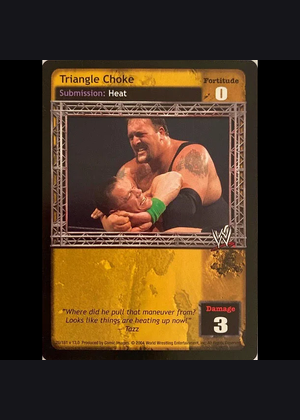
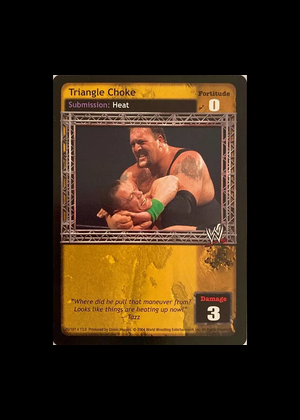
fix: resize cards - Enough With the Trash Talk +15%, Beating the Odds wider, Triangle Choke bigger, Knee Lift wider, Diversion wider

diff --git a/scripts/resize_cards.py b/scripts/resize_cards.py
@@ -1,0 +1,108 @@
+#!/usr/bin/env python3
+"""Make specific cards bigger/wider as requested."""
+from PIL import Image, ImageChops
+import os
+
+ROOT = os.path.abspath(os.path.join(os.path.dirname(__file__), '..'))
+PUBLIC = os.path.join(ROOT, 'public', 'cards')
+BANK = os.path.join(ROOT, 'scripts', 'generated', 'bank')
+DECKS = os.path.join(ROOT, 'Decks')
+W, H = 300, 420
+
+def crop_whitespace(img, threshold=240):
+    bg = Image.new(img.mode, img.size, (255, 255, 255))
+    diff = ImageChops.difference(img, bg)
+    diff = ImageChops.add(diff, diff, 2.0, -threshold)
+    bbox = diff.getbbox()
+    return img.crop(bbox) if bbox else img
+
+def save(img, card_id):
+    img.save(os.path.join(PUBLIC, f'{card_id}.png'), 'PNG')
+    print(f'  {card_id}.png -> {img.size}')
+
+# ── Enough With the Trash Talk: 15% bigger in all dimensions ──
+# Source is landscape (500x333). Current uses backlash fit with margin.
+# Make it fill 85% of canvas instead of fitting with default margin.
+print('=== Enough With the Trash Talk (+15%) ===')
+src = Image.open(os.path.join(DECKS, 'set909_extracted', 'word', 'media', 'image35.png')).convert('RGBA')
+cropped = crop_whitespace(src)
+cw, ch = cropped.size
+# Target: 85% of canvas (was ~75% with default fit)
+target_w = int(W * 0.88)
+target_h = int(H * 0.88)
+scale = min(target_w / cw, target_h / ch)
+new_w, new_h = int(cw * scale), int(ch * scale)
+resized = cropped.resize((new_w, new_h), Image.LANCZOS)
+canvas = Image.new('RGBA', (W, H), (0, 0, 0, 255))
+canvas.paste(resized, ((W - new_w) // 2, (H - new_h) // 2), resized)
+save(canvas, 'enough-with-the-trash-talk')
+
+# ── Beating the Odds: wider only ──
+# Source 610x610 (square). Make it wider within 300x420 canvas.
+print('=== Beating the Odds (wider) ===')
+src = Image.open(os.path.join(DECKS, 'set909_extracted', 'word', 'media', 'image33.png')).convert('RGBA')
+cropped = crop_whitespace(src)
+cw, ch = cropped.size
+# Scale to use 90% of width, height proportional
+target_w = int(W * 0.92)
+scale = target_w / cw
+new_w, new_h = int(cw * scale), int(ch * scale)
+# Cap height at 85% of canvas
+max_h = int(H * 0.88)
+if new_h > max_h:
+    scale2 = max_h / new_h
+    new_w, new_h = int(new_w * scale2), max_h
+resized = cropped.resize((new_w, new_h), Image.LANCZOS)
+canvas = Image.new('RGBA', (W, H), (0, 0, 0, 255))
+canvas.paste(resized, ((W - new_w) // 2, (H - new_h) // 2), resized)
+save(canvas, 'beating-the-odds')
+
+# ── Triangle Choke: bigger in all dimensions ──
+print('=== Triangle Choke (bigger) ===')
+src = Image.open(os.path.join(BANK, 'elpepe-raw-deal', '305.png')).convert('RGBA')
+cropped = crop_whitespace(src)
+cw, ch = cropped.size
+target_w = int(W * 0.90)
+target_h = int(H * 0.90)
+scale = min(target_w / cw, target_h / ch)
+new_w, new_h = int(cw * scale), int(ch * scale)
+resized = cropped.resize((new_w, new_h), Image.LANCZOS)
+canvas = Image.new('RGBA', (W, H), (0, 0, 0, 255))
+canvas.paste(resized, ((W - new_w) // 2, (H - new_h) // 2), resized)
+save(canvas, 'triangle-choke')
+
+# ── Knee Lift: wider ──
+print('=== Knee Lift (wider) ===')
+src = Image.open(os.path.join(BANK, 'elpepe-raw-deal', '84.png')).convert('RGBA')
+cropped = crop_whitespace(src)
+cw, ch = cropped.size
+target_w = int(W * 0.92)
+scale = target_w / cw
+new_w, new_h = int(cw * scale), int(ch * scale)
+max_h = int(H * 0.88)
+if new_h > max_h:
+    scale2 = max_h / new_h
+    new_w, new_h = int(new_w * scale2), max_h
+resized = cropped.resize((new_w, new_h), Image.LANCZOS)
+canvas = Image.new('RGBA', (W, H), (0, 0, 0, 255))
+canvas.paste(resized, ((W - new_w) // 2, (H - new_h) // 2), resized)
+save(canvas, 'knee-lift')
+
+# ── Diversion: wider ──
+print('=== Diversion (wider) ===')
+src = Image.open(os.path.join(BANK, 'elpepe-raw-deal', '122.png')).convert('RGBA')
+cropped = crop_whitespace(src)
+cw, ch = cropped.size
+target_w = int(W * 0.92)
+scale = target_w / cw
+new_w, new_h = int(cw * scale), int(ch * scale)
+max_h = int(H * 0.88)
+if new_h > max_h:
+    scale2 = max_h / new_h
+    new_w, new_h = int(new_w * scale2), max_h
+resized = cropped.resize((new_w, new_h), Image.LANCZOS)
+canvas = Image.new('RGBA', (W, H), (0, 0, 0, 255))
+canvas.paste(resized, ((W - new_w) // 2, (H - new_h) // 2), resized)
+save(canvas, 'diversion')
+
+print('\nDone!')
